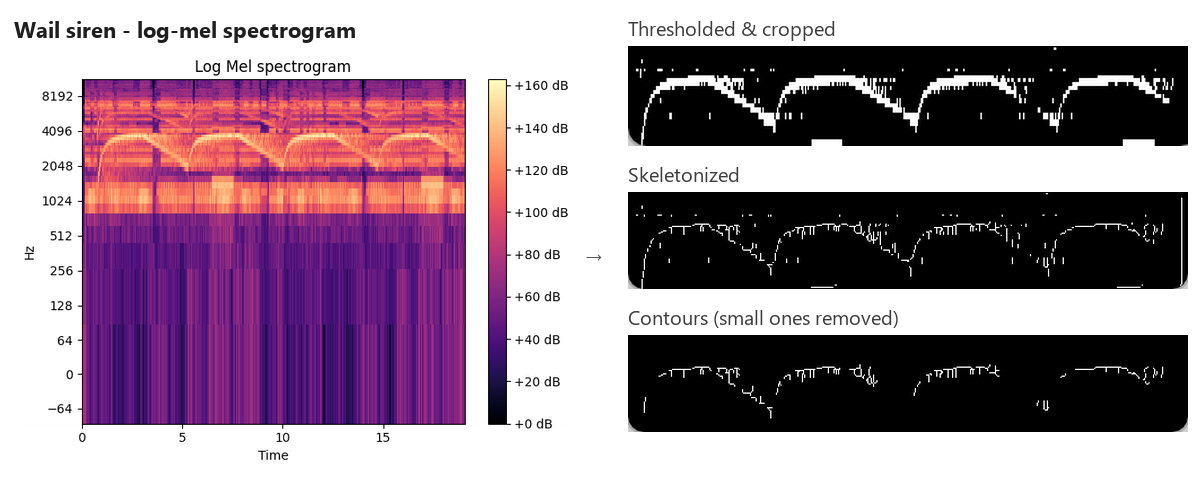
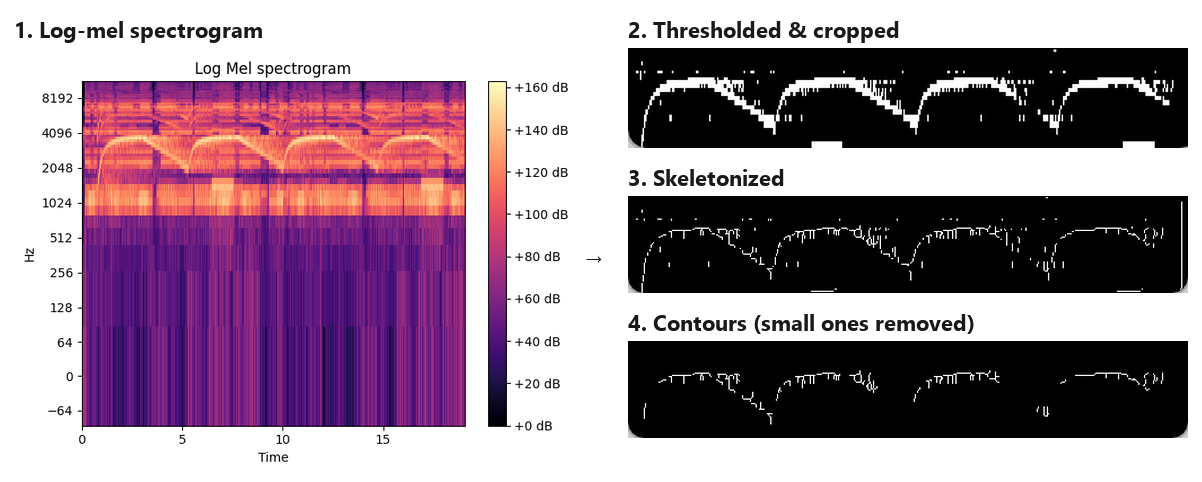
README: internship line, captioned pipeline figures, horn check, annotated full-system logs, references

diff --git a/README.md b/README.md
@@ -1,13 +1,11 @@
 # Ambulance-Sound-Controlled Traffic Signal
 
-A traffic-signal system that detects an **ambulance siren** from audio and holds the light green to let the ambulance through. Siren detection is done with traditional **audio + image processing**, and the signal is driven on an **Arduino** via `pyfirmata`.
+This project was carried out as part of an internship at CSIR-National Aerospace Laboratories (NAL), Bengaluru from June - July 2023. It is a traffic-signal system that detects an **ambulance siren** from audio and holds the light green to let the ambulance through. Siren detection is done with traditional **audio + image processing**, and the signal is driven on an **Arduino** via `pyfirmata`.
 
 <p align="center">
   <img src="media/led_states.jpg" width="720" alt="Arduino traffic-signal prototype showing the red, yellow and green states">
   <br><i>The Arduino traffic-signal prototype - red, yellow and green states.</i>
 </p>
-
-*Built during a research internship at CSIR-National Aerospace Laboratories (NAL), June-July 2023.*
 
 ---
 
@@ -25,7 +23,10 @@ Ambulance sirens sweep up and down in pitch in a regular, repeating pattern, mos
 Two siren types are handled separately: the slow **wail** (needs about 15 s of audio) and the fast **yelp** (about 5 s).
 
 <p align="center"><img src="media/pipeline_wail.png" width="800" alt="Wail siren detection pipeline"></p>
+<p align="center"><i><b>Wail siren</b> (slow sweep, about 5 s per cycle). (1) The log-mel spectrogram of the recording - the siren shows up as the repeating arcs in the upper band. (2) The spectrogram is thresholded into a binary image and cropped to the band containing the siren. (3) Skeletonization thins the band to a single-pixel curve. (4) Contours are extracted and small ones removed, leaving the rise-and-fall pattern whose peaks and troughs the detector counts.</i></p>
+
 <p align="center"><img src="media/pipeline_yelp.png" width="800" alt="Yelp siren detection pipeline"></p>
+<p align="center"><i><b>Yelp siren</b> (fast sweep, many short cycles in a 5 s clip). The same four steps: (1) log-mel spectrogram, where the yelp appears as a tight sawtooth; (2) thresholded and cropped; (3) skeletonized; (4) contours, whose closely spaced peaks and troughs are counted to confirm the siren.</i></p>
 
 ### 2. Traffic signal control (Arduino)
 
@@ -43,22 +44,30 @@ A three-LED traffic light is wired to an Arduino Uno running the StandardFirmata
 
 The system was tested on recordings of both siren types, on sirens mixed with multiple horn sounds in the background (as in heavy traffic), and on horn sounds alone. Detecting a siren takes **under 4 seconds** from the input audio.
 
-**Siren vs. horn.** The wail detector finds the repeating peaks and troughs and returns `True`; for horn sound alone, nothing is found above 600 Hz and it returns `False`.
+**Siren vs. horn.** For a siren, the wail detector finds the repeating peaks and troughs and returns `True`. For a recording of horns alone, the mel spectrogram has no energy above 600 Hz, so the same detector script returns `False`.
 
 <p align="center">
-  <img src="media/wail_detected.png" width="640" alt="Wail detector output: peak and trough coordinates, True">
-  <br>
-  <img src="media/horn_rejected.png" width="640" alt="Horn-only input: False">
+  <img src="media/wail_detected.png" width="640" alt="Wail detector output on a siren recording: peak and trough coordinates, True">
+  <br><i>Wail detector on a siren recording: the peaks and troughs it found, then <code>True</code>.</i>
 </p>
-
-**Full system.** While the signal is red, a wail siren interrupts the cycle and switches it to green. When only horn sound is heard again, the cycle resumes from where it was interrupted (back to red).
 
 <table align="center">
   <tr>
-    <td align="center"><img src="media/combined_wail_to_green.png" width="400" alt="Red, siren detected, switches to green"><br><i>Siren detected → green</i></td>
-    <td align="center"><img src="media/combined_horn_resume.png" width="400" alt="Horn only, cycle resumes at red"><br><i>Siren gone → cycle resumes</i></td>
+    <td align="center"><img src="media/horn_spectrogram.png" width="380" alt="Mel spectrogram of a horn-only recording"></td>
+    <td align="center" valign="middle"><img src="media/horn_rejected.png" width="400" alt="Detector output on the horn recording: False"></td>
   </tr>
 </table>
+<p align="center"><i>The same detector run on a horn-only recording: everything stays below 600 Hz, so it returns <code>False</code>.</i></p>
+
+**Full system.** The signal cycles normally until a siren is heard, then switches to green and holds it. When only horn sound remains, the cycle resumes from where it was interrupted. The logs below are the system's terminal output, one line per signal update (the report shows the signal state as printed text).
+
+<p align="center"><img src="media/full_siren_to_green.png" width="760" alt="Signal is red, a wail siren is detected, signal switches to green"></p>
+<p align="center"><i>While the signal is red, a wail siren is detected and the signal switches to green.</i></p>
+
+<p align="center"><img src="media/full_horn_resume.png" width="760" alt="Siren gone, only horn sound, cycle resumes at red"></p>
+<p align="center"><i>Once only horn sound is heard, the cycle resumes where it was interrupted - back to red.</i></p>
+
+Detection currently runs on pre-recorded audio clips. The next steps identified in the report are real-time detection from live microphones, more siren types and multiple signals, and running it on a standalone board such as a Raspberry Pi or Jetson Nano.
 
 ---
 
@@ -100,3 +109,10 @@ The system was tested on recordings of both siren types, on sirens mixed with mu
    ```
 
 ---
+
+## References
+
+- R. C. Gonzalez and R. E. Woods, *Digital Image Processing*, 4th ed.
+- [Audio feature extraction notebook](https://github.com/PrabhjotKaurGosal/Helpful-scripts-for-MachineLearning/blob/main/AudioFeatureExtraction_vX.ipynb) - P. K. Gosal, *Helpful scripts for Machine Learning*
+- [Retrieving pixel coordinates of a specific colour](https://answers.opencv.org/question/98980/how-to-retrieve-all-coordinates-of-pixels-of-specific-colour-in-an-image/) - OpenCV Q&A
+- [Skeletonize](https://scikit-image.org/docs/stable/auto_examples/edges/plot_skeleton.html) - scikit-image documentation
